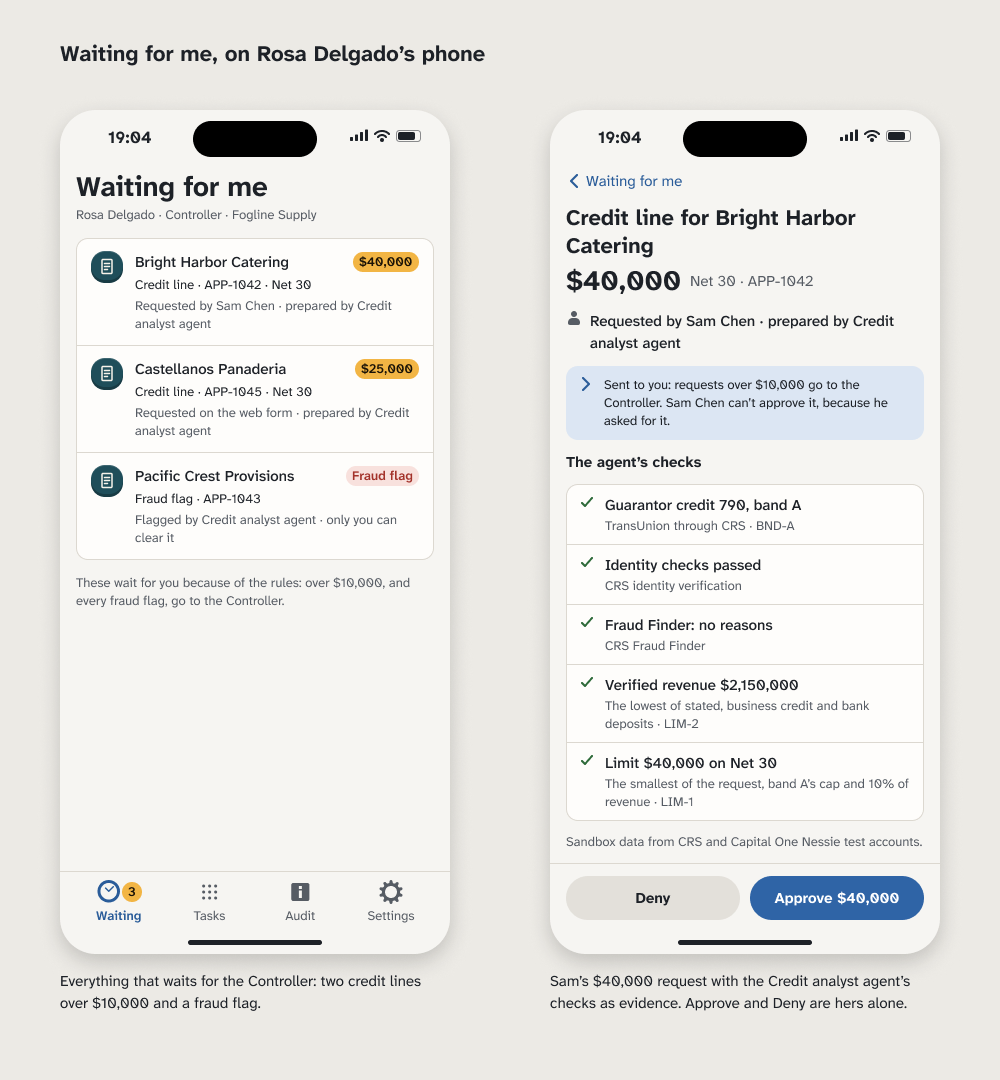
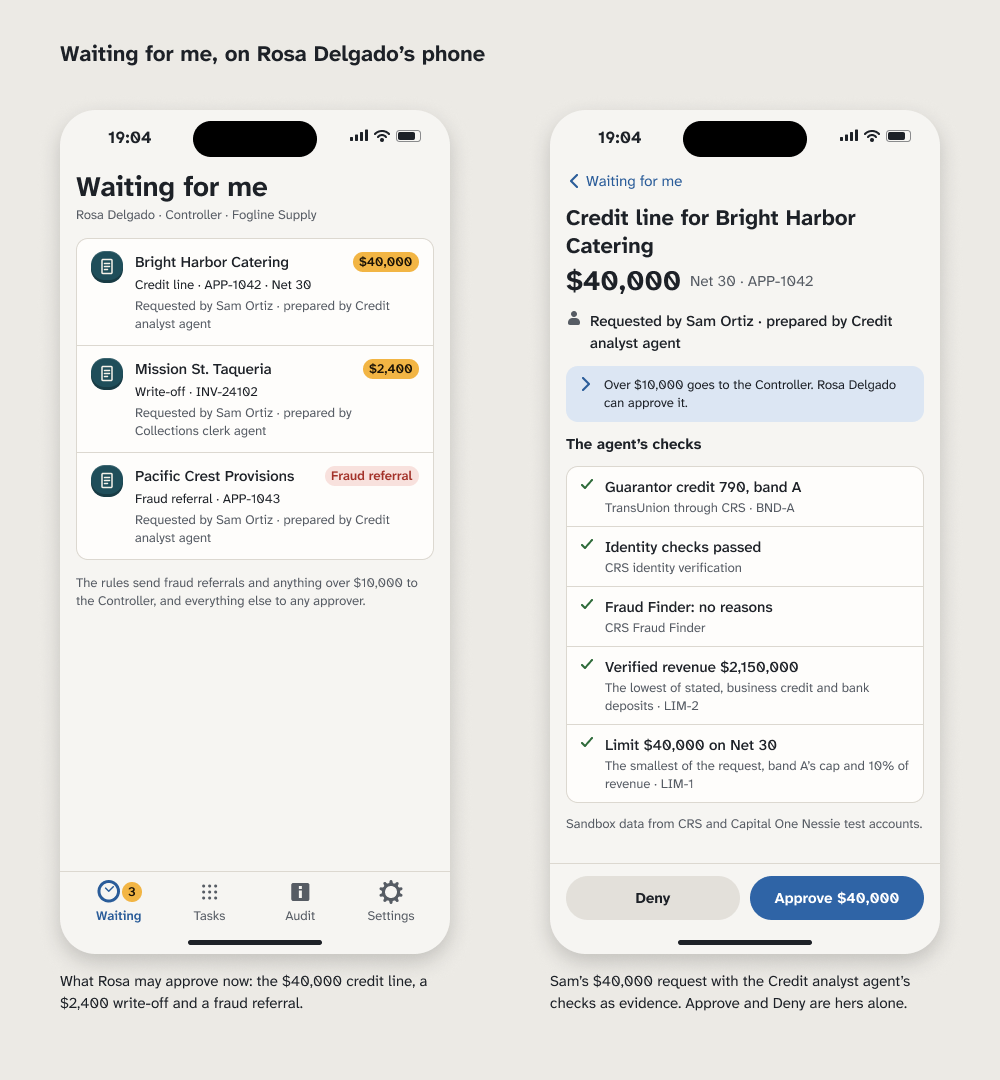
Figma: GurtOS Business frames use the Business core's people, policy, route sentences and refusals

diff --git a/docs/figma/business/README.md b/docs/figma/business/README.md
@@ -11,44 +11,52 @@ Nessie test accounts.
 
 ## People
 
-| Person | Role | Can approve | Notes |
-|---|---|---|---|
-| Rosa Delgado | Controller | Up to $50,000 | The only one who clears fraud flags. From the credit desk profile |
-| Sam Chen | Sales | Nothing | Asks for credit for customers |
-| Priya Nair | IT admin | Nothing | Manages people, devices and rules, and holds the kill switch |
-| Owen Clarke | Auditor | Nothing | Reads the audit log and exports it |
-| Credit analyst | Agent seat | Up to $10,000 on its own | Above that it prepares and proposes |
-| Collections clerk | Agent seat | Nothing | Can't change limits or terms |
+These are the people, seats and policy the Business core uses in its demo (branch `business`), so the frames show
+real fields and the box's own sentences.
 
-The rules: requests over $10,000 go to the Controller; nobody approves their own request; an agent never approves an
-agent.
+| Person | Role | Title | Limit | Approves for |
+|---|---|---|---|---|
+| Rosa Delgado | approver | Controller | $50,000 | Controller |
+| Sam Ortiz | requester | Sales | | |
+| Dana Brooks | admin | IT admin | | IT |
+| Lee Morgan | auditor | Auditor | | |
+
+The agent seats are the Credit analyst and the Collections clerk. Seats do the work and ask; only a person on a paired
+phone answers a request. The policy is plain text, one rule per line, and the first rule that matches decides:
+
+```
+Fraud referrals go to the Controller.
+Over $10,000 goes to the Controller.
+Production changes go to IT.
+Everything else goes to any approver.
+```
 
 ## Screens
 
 | PNG | Node | What it shows |
 |---|---|---|
-| `1a-people.png` | `111:119` | Settings, People: each person with their role, the phone they approve from and their approval limit, then the two agent seats and what each may do. Priya is signed in |
-| `1b-add-a-person.png` | `111:642` | Add a person: name, email, role (Approver), "Approves up to $10,000", and a "Can clear fraud flags" switch. The new person can't approve until a phone is paired to them |
-| `2-rules.png` | `112:508` | Settings, Rules. A tester at the top ("A credit line of $40,000 asked for by Sam Chen" goes to Rosa, and why). Then the rules as sentences with editable values: "Requests over $10,000 go to the Controller for approval." Each says who changed it last. Under "Always on", three locked rules nobody can turn off, admins included |
-| `3-waiting-for-me-rosa-phone.png` | `119:1266` (phones `115:697`, `115:776`) | Rosa's phone. Waiting for me lists two credit lines over $10,000 and a fraud flag. Sam's $40,000 request shows the Credit analyst agent's checks as evidence, "Requested by Sam Chen · prepared by Credit analyst agent", and Deny and Approve $40,000 |
-| `4-audit.png` | `116:936` | The Audit app, opened by Owen (read-only). Filtered to one customer, Bright Harbor Catering: asked by Sam at 14:05, prepared by the agent at 14:06, routed to Rosa at 14:07, approved by Rosa at 16:40, the limit set. Filters for dates, people, agents and kinds, Timeline and Table, Export CSV, and one entry's detail |
-| `5a-kill-switch-box.png` | `116:1208` | Priya on the box screen: Control Center's Kill switch card, and the confirmation that says what stops (6 tasks), what stays open (3 requests) and who can resume |
-| `5b-kill-switch-phone.png` | `119:1370` (phones `115:919`, `115:978`) | The same on Priya's phone: the Kill switch page, then the paused state with Resume all agents and the stopped tasks |
-| `5c-all-agents-paused.png` | `116:1474` | The box while paused, signed in as Rosa: "All agents are paused", the requests she can still answer, the 6 paused tasks, and the notification "All agents paused by Priya Nair" |
-| `6-server-vs-business.png` | `119:1513` | The same $40,000 request twice. In Server, the one owner gets it on their phone and approves. In Business, the rule sends it to Rosa: Sam's phone shows it waiting with no Approve button ("You can't approve this: you asked for it"), and Rosa's phone has Approve $40,000 |
+| `1a-people.png` | `111:119` | Settings, People: each person with role, title, paired phone, limit and what they approve for, then the two agent seats ("Asks, never approves"). Dana is signed in |
+| `1b-add-a-person.png` | `111:642` | Add a person: name, title, role, limit and approves for. The next step is a one-time pairing code for their phone; until one is paired, they can't approve |
+| `2-rules.png` | `112:508` | Settings, Rules: the four policy lines with their values highlighted to change, and a tester that shows the route sentence for a request ("Over $10,000 goes to the Controller. Rosa Delgado can approve it."). Under "Always on", the three rules nobody can turn off |
+| `3-waiting-for-me-rosa-phone.png` | `119:1266` (phones `115:697`, `115:776`) | Rosa's phone. Waiting for me holds the $40,000 credit line, the $2,400 write-off and the fraud referral. The $40,000 request shows the Credit analyst agent's checks as evidence, "Requested by Sam Ortiz · prepared by Credit analyst agent", its route sentence, and Deny and Approve $40,000 |
+| `4-audit.png` | `116:936` | The Audit app, opened by Lee (auditor). The timeline for one customer: asked by Sam, prepared by the Credit analyst, routed to Rosa, approved by Rosa, the limit set. Filters for dates, person, seat and app, Timeline and Table, Export CSV, and one entry with the audit columns (by, event, at, asked, seat, app, approver) |
+| `5a-kill-switch-box.png` | `116:1208` | Dana on the box screen: Control Center's Kill switch card, and the confirmation that says what stops, what waits in the queue, what stays open and who can resume |
+| `5b-kill-switch-phone.png` | `119:1370` (phones `115:919`, `115:978`) | The same on Dana's phone: the Kill switch page, then "Paused by Dana Brooks at 10:41" with Resume all agents and the stopped tasks |
+| `5c-all-agents-paused.png` | `116:1474` | The box while paused, signed in as Rosa: the 6 paused tasks, the 3 requests she can still answer, and the notification "All agents paused by Dana Brooks" |
+| `6-server-vs-business.png` | `119:1513` | The same $40,000 request twice. In Server, the one owner gets it on their phone and approves. In Business, the policy sends it to Rosa: Sam's phone shows it waiting with "You asked for this, so someone else has to answer it.", and Rosa's phone has Approve $40,000 |
 
 ## What Ben should check
 
-- **Names.** The brief named Rosa, Sam, an IT admin and an auditor. Sam's surname (Chen), Priya Nair, Owen Clarke and
-  Dana Whitfield (the person being added in 1b, with a `fogline.example` email) are invented here. The credit desk
-  profile calls its sales reps M. Chen and J. Park, so "Sam Chen" fits it, but any name can change.
-- **Who resumes.** Only an IT admin can resume after the kill switch. The Controller can still answer requests while
-  agents are paused, because answering starts nothing.
-- **The $50,000 ceiling.** Rosa's limit is $50,000, so the rules say requests above it can't be approved in GurtOS at
-  all. The credit desk's APP-1046 ($45,000) stays under it.
+- **The customer name.** The frames call APP-1042 Bright Harbor Catering, as the credit desk track does. The Business
+  demo on branch `business` calls it Harbor Lane Bakery; one of the two should change.
+- **Grace Ito.** The person being added in 1b (assistant controller, $10,000, approves for Controller) is invented.
+- **Filtering to one customer.** The audit filters by person, seat, app and dates. The brief asked for one customer's
+  timeline, so the frame keeps a customer filter the box doesn't have yet.
+- **The $50,000 limit.** Above Rosa's limit, nobody can approve: the route sentence says "Nobody can approve it yet:
+  it is $75,000, above Rosa Delgado's $50,000 limit."
 
-## What the core doesn't have yet
+## What the core has, and what it doesn't
 
-Business needs APIs the core doesn't have: people and roles with approval limits, rules that route an approval to a
-role, a check that the asker and the preparer can't approve, pause and resume for every agent at once, and an audit
-log filter by customer with CSV export. Approvals already record who answered.
+The Business core on branch `business` (not merged yet) has people and roles with limits, pairing a phone to a person,
+the policy and its route sentences, the refusals, the audit with its filters and CSV export, and the kill switch. It
+has no customer filter for the audit.

diff --git a/docs/stagelog.md b/docs/stagelog.md
@@ -38,7 +38,8 @@ One line per Figma step: stage, Figma tool, minutes, rating 1 to 5, how the outp
 | Fri Oct 23, 11:40 PM to Sat 12:05 AM | Code generation: GurtOS Personal on GNOME in the new system | The Personal frames in `docs/figma/os-v2/personal/` and `docs/figma/system.md`, read by Claude Code; no `get_design_context`, because these are GTK and libadwaita widgets, not web code | 25 | 4 | `personal/`: GurtOS Setup's seven steps, the Ask an Agent dialog, the review with Keep these changes?, the top-bar menu and the approval notification, built from libadwaita widgets with the system's light and dark tokens, Atkinson Hyperlegible Next and Mono, and the system's app glyphs. Not built, for want of a core API: May read, Pause all agents, a per-task internet choice. Screenshots in `personal/README.md`. |
 | Sat Oct 24, 12:48 to 12:59 AM | Design: GurtOS Personal as its own system on GNOME 46 (checkpoint) | Figma Design via Claude Code and Figma's MCP server (`use_figma`, `upload_assets` for 10 Papirus and 8 Adwaita SVGs, `get_screenshot`) | 11 | 4 | Page "GurtOS Personal OS": eight wallpapers (Hills, Lake, Dunes, Strata in light and dark), Papirus icons with folders recoloured to GurtOS slate, a GNOME 46 top bar and dock as components, and four screens: the desktop at rest, the GurtOS top-bar popover with an approval, Quick Settings with the Agents tile and its menu, and the login screen beside the boot splash. Plus an identity sheet. PNGs and how each part ships in `docs/figma/personal-os/`. |
 | Sat Oct 24, 1:06 to 1:14 AM | Design and handoff: GurtOS Personal, the rest and the theme assets | Figma Design via Claude Code and Figma's MCP server (`use_figma`, `upload_assets`, SVG export with `exportAsync`, `get_screenshot`); rsvg-convert for the PNGs | 8 | 4 | Seven more screens on "GurtOS Personal OS": the approval notification, the lock screen (Deny works locked, Approve unlocks first), Activities search, Files before and after Keep with the "Changed by an agent" emblem, GurtOS Settings, and the app grid and dock. Then the assets the Personal thread installs, in `docs/figma/personal-os/assets/`: eight wallpapers as SVG and 4K PNG with the GNOME backgrounds XML, the colours as CSS variables and libadwaita named colours, the outlined wordmark, a Plymouth theme with its spinner frames, the GDM logo, and the emblem. |
-| Sat Oct 24, 1:16 to 1:32 AM | Design: GurtOS Business (checkpoint) | Figma Design via Claude Code and Figma's MCP server (`use_figma`, `get_screenshot`) | 16 | 4 | Page "GurtOS Business", in the approved system with no new components: People with approval limits and Add a person, Rules as sentences with editable values and three locked rules, Rosa's Waiting for me and the $40,000 request on her phone, the Audit timeline filtered to one customer with Export CSV, the kill switch on the box and on Priya's phone with the paused state, and the same request in Server and in Business. Nine PNGs in `docs/figma/business/` for Ben's approval before any of it is coded. |
+| Sat Oct 24, 1:16 to 1:32 AM | Design: GurtOS Business (checkpoint) | Figma Design via Claude Code and Figma's MCP server (`use_figma`, `get_screenshot`) | 16 | 4 | Page "GurtOS Business", in the approved system with no new components: People with approval limits and Add a person, Rules as sentences with editable values and three locked rules, Rosa's Waiting for me and the $40,000 request on her phone, the Audit timeline filtered to one customer with Export CSV, the kill switch on the box and on the IT admin's phone with the paused state, and the same request in Server and in Business. Nine PNGs in `docs/figma/business/` for Ben's approval before any of it is coded. |
+| Sat Oct 24, 1:36 to 1:40 AM | Design: GurtOS Business, matched to the Business core | Figma Design via Claude Code and Figma's MCP server (`use_figma`, `get_screenshot`) | 4 | 4 | The Business thread sent what its core returns, so the nine frames now use it: its people (Sam Ortiz, Dana Brooks, Lee Morgan), the four policy lines as the Rules list, the box's route sentences and refusals word for word, Rosa's three requests (the $40,000 credit line, the $2,400 write-off, the fraud referral), the audit columns and filters, and the kill switch's "paused by". PNGs replaced in `docs/figma/business/`. |
 
 ## For Devpost (up to 200 words per stage)
 
